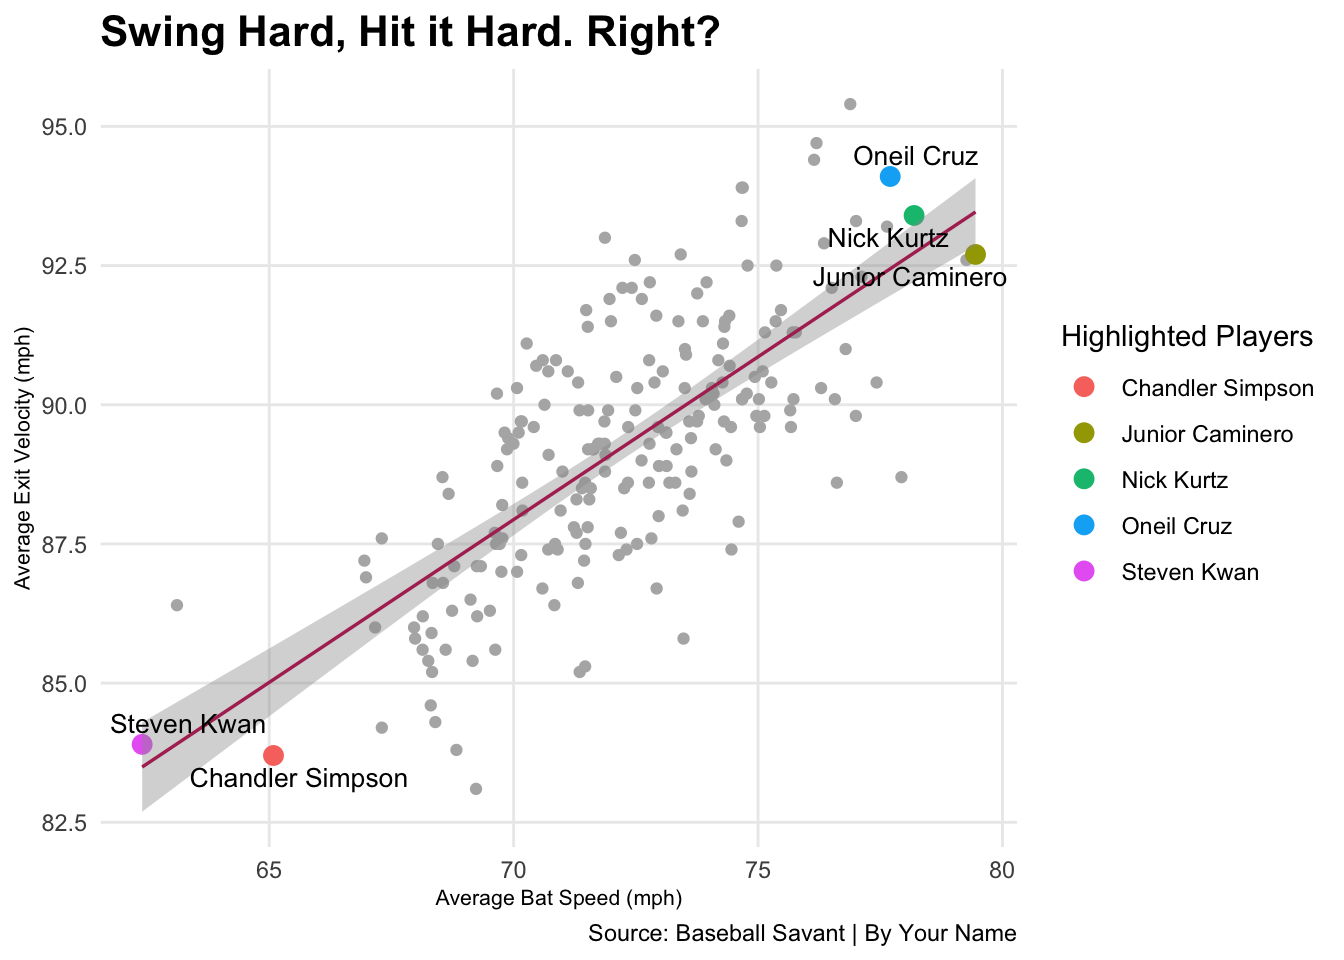
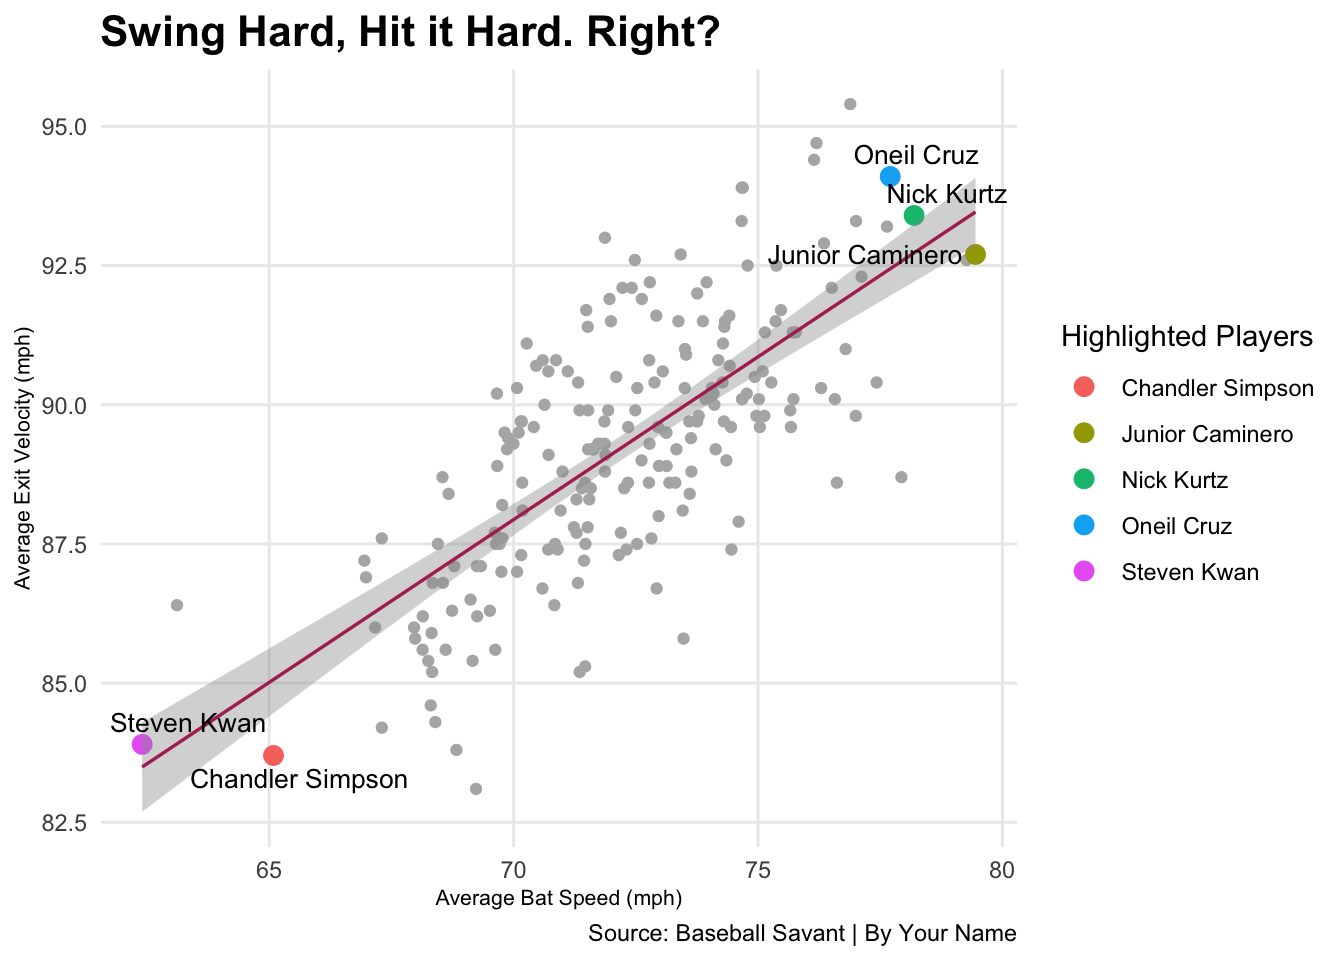
charts3

Changed region(s): [[0.5625, 0.1562, 0.75, 0.3125], [0.1562, 0.75, 0.2812, 0.8438], [0.0938, 0.75, 0.125, 0.7812]]

diff --git a/posts/mlb-hitting-data-baseball/index.html b/posts/mlb-hitting-data-baseball/index.html
@@ -576,23 +576,23 @@ pre > code.sourceCode > span > a:first-child::before { text-decoration: underlin
 <span id="cb3-75"><a href="#cb3-75" aria-hidden="true" tabindex="-1"></a>  )</span></code></pre></div><button title="Copy to Clipboard" class="code-copy-button"><i class="bi"></i></button></div>
 </details>
 <div class="cell-output-display">
-<div id="ptxwmjomcz" style="padding-left:0px;padding-right:0px;padding-top:10px;padding-bottom:10px;overflow-x:auto;overflow-y:auto;width:auto;height:auto;">
-<style>#ptxwmjomcz table {
+<div id="tmewzvvvbj" style="padding-left:0px;padding-right:0px;padding-top:10px;padding-bottom:10px;overflow-x:auto;overflow-y:auto;width:auto;height:auto;">
+<style>#tmewzvvvbj table {
   font-family: system-ui, 'Segoe UI', Roboto, Helvetica, Arial, sans-serif, 'Apple Color Emoji', 'Segoe UI Emoji', 'Segoe UI Symbol', 'Noto Color Emoji';
   -webkit-font-smoothing: antialiased;
   -moz-osx-font-smoothing: grayscale;
 }
 
-#ptxwmjomcz thead, #ptxwmjomcz tbody, #ptxwmjomcz tfoot, #ptxwmjomcz tr, #ptxwmjomcz td, #ptxwmjomcz th {
+#tmewzvvvbj thead, #tmewzvvvbj tbody, #tmewzvvvbj tfoot, #tmewzvvvbj tr, #tmewzvvvbj td, #tmewzvvvbj th {
   border-style: none;
 }
 
-#ptxwmjomcz p {
+#tmewzvvvbj p {
   margin: 0;
   padding: 0;
 }
 
-#ptxwmjomcz .gt_table {
+#tmewzvvvbj .gt_table {
   display: table;
   border-collapse: collapse;
   line-height: normal;
@@ -618,12 +618,12 @@ pre > code.sourceCode > span > a:first-child::before { text-decoration: underlin
   border-left-color: #D3D3D3;
 }
 
-#ptxwmjomcz .gt_caption {
+#tmewzvvvbj .gt_caption {
   padding-top: 4px;
   padding-bottom: 4px;
 }
 
-#ptxwmjomcz .gt_title {
+#tmewzvvvbj .gt_title {
   color: #333333;
   font-size: 125%;
   font-weight: initial;
@@ -635,7 +635,7 @@ pre > code.sourceCode > span > a:first-child::before { text-decoration: underlin
   border-bottom-width: 0;
 }
 
-#ptxwmjomcz .gt_subtitle {
+#tmewzvvvbj .gt_subtitle {
   color: #333333;
   font-size: 85%;
   font-weight: initial;
@@ -647,7 +647,7 @@ pre > code.sourceCode > span > a:first-child::before { text-decoration: underlin
   border-top-width: 0;
 }
 
-#ptxwmjomcz .gt_heading {
+#tmewzvvvbj .gt_heading {
   background-color: #FFFFFF;
   text-align: center;
   border-bottom-color: #FFFFFF;
@@ -659,13 +659,13 @@ pre > code.sourceCode > span > a:first-child::before { text-decoration: underlin
   border-right-color: #D3D3D3;
 }
 
-#ptxwmjomcz .gt_bottom_border {
+#tmewzvvvbj .gt_bottom_border {
   border-bottom-style: solid;
   border-bottom-width: 2px;
   border-bottom-color: #D3D3D3;
 }
 
-#ptxwmjomcz .gt_col_headings {
+#tmewzvvvbj .gt_col_headings {
   border-top-style: solid;
   border-top-width: 2px;
   border-top-color: #D3D3D3;
@@ -680,7 +680,7 @@ pre > code.sourceCode > span > a:first-child::before { text-decoration: underlin
   border-right-color: #D3D3D3;
 }
 
-#ptxwmjomcz .gt_col_heading {
+#tmewzvvvbj .gt_col_heading {
   color: #333333;
   background-color: #FFFFFF;
   font-size: 100%;
@@ -700,7 +700,7 @@ pre > code.sourceCode > span > a:first-child::before { text-decoration: underlin
   overflow-x: hidden;
 }
 
-#ptxwmjomcz .gt_column_spanner_outer {
+#tmewzvvvbj .gt_column_spanner_outer {
   color: #333333;
   background-color: #FFFFFF;
   font-size: 100%;
@@ -712,15 +712,15 @@ pre > code.sourceCode > span > a:first-child::before { text-decoration: underlin
   padding-right: 4px;
 }
 
-#ptxwmjomcz .gt_column_spanner_outer:first-child {
+#tmewzvvvbj .gt_column_spanner_outer:first-child {
   padding-left: 0;
 }
 
-#ptxwmjomcz .gt_column_spanner_outer:last-child {
+#tmewzvvvbj .gt_column_spanner_outer:last-child {
   padding-right: 0;
 }
 
-#ptxwmjomcz .gt_column_spanner {
+#tmewzvvvbj .gt_column_spanner {
   border-bottom-style: solid;
   border-bottom-width: 2px;
   border-bottom-color: #D3D3D3;
@@ -732,11 +732,11 @@ pre > code.sourceCode > span > a:first-child::before { text-decoration: underlin
   width: 100%;
 }
 
-#ptxwmjomcz .gt_spanner_row {
+#tmewzvvvbj .gt_spanner_row {
   border-bottom-style: hidden;
 }
 
-#ptxwmjomcz .gt_group_heading {
+#tmewzvvvbj .gt_group_heading {
   padding-top: 8px;
   padding-bottom: 8px;
   padding-left: 5px;
@@ -762,7 +762,7 @@ pre > code.sourceCode > span > a:first-child::before { text-decoration: underlin
   text-align: left;
 }
 
-#ptxwmjomcz .gt_empty_group_heading {
+#tmewzvvvbj .gt_empty_group_heading {
   padding: 0.5px;
   color: #333333;
   background-color: #FFFFFF;
@@ -777,15 +777,15 @@ pre > code.sourceCode > span > a:first-child::before { text-decoration: underlin
   vertical-align: middle;
 }
 
-#ptxwmjomcz .gt_from_md > :first-child {
+#tmewzvvvbj .gt_from_md > :first-child {
   margin-top: 0;
 }
 
-#ptxwmjomcz .gt_from_md > :last-child {
+#tmewzvvvbj .gt_from_md > :last-child {
   margin-bottom: 0;
 }
 
-#ptxwmjomcz .gt_row {
+#tmewzvvvbj .gt_row {
   padding-top: 8px;
   padding-bottom: 8px;
   padding-left: 5px;
@@ -804,7 +804,7 @@ pre > code.sourceCode > span > a:first-child::before { text-decoration: underlin
   overflow-x: hidden;
 }
 
-#ptxwmjomcz .gt_stub {
+#tmewzvvvbj .gt_stub {
   color: #333333;
   background-color: #FFFFFF;
   font-size: 100%;
@@ -817,7 +817,7 @@ pre > code.sourceCode > span > a:first-child::before { text-decoration: underlin
   padding-right: 5px;
 }
 
-#ptxwmjomcz .gt_stub_row_group {
+#tmewzvvvbj .gt_stub_row_group {
   color: #333333;
   background-color: #FFFFFF;
   font-size: 100%;
@@ -831,15 +831,15 @@ pre > code.sourceCode > span > a:first-child::before { text-decoration: underlin
   vertical-align: top;
 }
 
-#ptxwmjomcz .gt_row_group_first td {
+#tmewzvvvbj .gt_row_group_first td {
   border-top-width: 2px;
 }
 
-#ptxwmjomcz .gt_row_group_first th {
+#tmewzvvvbj .gt_row_group_first th {
   border-top-width: 2px;
 }
 
-#ptxwmjomcz .gt_summary_row {
+#tmewzvvvbj .gt_summary_row {
   color: #333333;
   background-color: #FFFFFF;
   text-transform: inherit;
@@ -849,16 +849,16 @@ pre > code.sourceCode > span > a:first-child::before { text-decoration: underlin
   padding-right: 5px;
 }
 
-#ptxwmjomcz .gt_first_summary_row {
+#tmewzvvvbj .gt_first_summary_row {
   border-top-style: solid;
   border-top-color: #D3D3D3;
 }
 
-#ptxwmjomcz .gt_first_summary_row.thick {
+#tmewzvvvbj .gt_first_summary_row.thick {
   border-top-width: 2px;
 }
 
-#ptxwmjomcz .gt_last_summary_row {
+#tmewzvvvbj .gt_last_summary_row {
   padding-top: 8px;
   padding-bottom: 8px;
   padding-left: 5px;
@@ -868,7 +868,7 @@ pre > code.sourceCode > span > a:first-child::before { text-decoration: underlin
   border-bottom-color: #D3D3D3;
 }
 
-#ptxwmjomcz .gt_grand_summary_row {
+#tmewzvvvbj .gt_grand_summary_row {
   color: #333333;
   background-color: #FFFFFF;
   text-transform: inherit;
@@ -878,7 +878,7 @@ pre > code.sourceCode > span > a:first-child::before { text-decoration: underlin
   padding-right: 5px;
 }
 
-#ptxwmjomcz .gt_first_grand_summary_row {
+#tmewzvvvbj .gt_first_grand_summary_row {
   padding-top: 8px;
   padding-bottom: 8px;
   padding-left: 5px;
@@ -888,7 +888,7 @@ pre > code.sourceCode > span > a:first-child::before { text-decoration: underlin
   border-top-color: #D3D3D3;
 }
 
-#ptxwmjomcz .gt_last_grand_summary_row_top {
+#tmewzvvvbj .gt_last_grand_summary_row_top {
   padding-top: 8px;
   padding-bottom: 8px;
   padding-left: 5px;
@@ -898,11 +898,11 @@ pre > code.sourceCode > span > a:first-child::before { text-decoration: underlin
   border-bottom-color: #D3D3D3;
 }
 
-#ptxwmjomcz .gt_striped {
+#tmewzvvvbj .gt_striped {
   background-color: rgba(128, 128, 128, 0.05);
 }
 
-#ptxwmjomcz .gt_table_body {
+#tmewzvvvbj .gt_table_body {
   border-top-style: solid;
   border-top-width: 2px;
   border-top-color: #D3D3D3;
@@ -911,7 +911,7 @@ pre > code.sourceCode > span > a:first-child::before { text-decoration: underlin
   border-bottom-color: #D3D3D3;
 }
 
-#ptxwmjomcz .gt_footnotes {
+#tmewzvvvbj .gt_footnotes {
   color: #333333;
   background-color: #FFFFFF;
   border-bottom-style: none;
@@ -925,7 +925,7 @@ pre > code.sourceCode > span > a:first-child::before { text-decoration: underlin
   border-right-color: #D3D3D3;
 }
 
-#ptxwmjomcz .gt_footnote {
+#tmewzvvvbj .gt_footnote {
   margin: 0px;
   font-size: 90%;
   padding-top: 4px;
@@ -934,7 +934,7 @@ pre > code.sourceCode > span > a:first-child::before { text-decoration: underlin
   padding-right: 5px;
 }
 
-#ptxwmjomcz .gt_sourcenotes {
+#tmewzvvvbj .gt_sourcenotes {
   color: #333333;
   background-color: #FFFFFF;
   border-bottom-style: none;
@@ -948,7 +948,7 @@ pre > code.sourceCode > span > a:first-child::before { text-decoration: underlin
   border-right-color: #D3D3D3;
 }
 
-#ptxwmjomcz .gt_sourcenote {
+#tmewzvvvbj .gt_sourcenote {
   font-size: 90%;
   padding-top: 4px;
   padding-bottom: 4px;
@@ -956,72 +956,72 @@ pre > code.sourceCode > span > a:first-child::before { text-decoration: underlin
   padding-right: 5px;
 }
 
-#ptxwmjomcz .gt_left {
+#tmewzvvvbj .gt_left {
   text-align: left;
 }
 
-#ptxwmjomcz .gt_center {
+#tmewzvvvbj .gt_center {
   text-align: center;
 }
 
-#ptxwmjomcz .gt_right {
+#tmewzvvvbj .gt_right {
   text-align: right;
   font-variant-numeric: tabular-nums;
 }
 
-#ptxwmjomcz .gt_font_normal {
+#tmewzvvvbj .gt_font_normal {
   font-weight: normal;
 }
 
-#ptxwmjomcz .gt_font_bold {
+#tmewzvvvbj .gt_font_bold {
   font-weight: bold;
 }
 
-#ptxwmjomcz .gt_font_italic {
+#tmewzvvvbj .gt_font_italic {
   font-style: italic;
 }
 
-#ptxwmjomcz .gt_super {
+#tmewzvvvbj .gt_super {
   font-size: 65%;
 }
 
-#ptxwmjomcz .gt_footnote_marks {
+#tmewzvvvbj .gt_footnote_marks {
   font-size: 75%;
   vertical-align: 0.4em;
   position: initial;
 }
 
-#ptxwmjomcz .gt_asterisk {
+#tmewzvvvbj .gt_asterisk {
   font-size: 100%;
   vertical-align: 0;
 }
 
-#ptxwmjomcz .gt_indent_1 {
+#tmewzvvvbj .gt_indent_1 {
   text-indent: 5px;
 }
 
-#ptxwmjomcz .gt_indent_2 {
+#tmewzvvvbj .gt_indent_2 {
   text-indent: 10px;
 }
 
-#ptxwmjomcz .gt_indent_3 {
+#tmewzvvvbj .gt_indent_3 {
   text-indent: 15px;
 }
 
-#ptxwmjomcz .gt_indent_4 {
+#tmewzvvvbj .gt_indent_4 {
   text-indent: 20px;
 }
 
-#ptxwmjomcz .gt_indent_5 {
+#tmewzvvvbj .gt_indent_5 {
   text-indent: 25px;
 }
 
-#ptxwmjomcz .katex-display {
+#tmewzvvvbj .katex-display {
   display: inline-flex !important;
   margin-bottom: 0.75em !important;
 }
 
-#ptxwmjomcz div.Reactable > div.rt-table > div.rt-thead > div.rt-tr.rt-tr-group-header > div.rt-th-group:after {
+#tmewzvvvbj div.Reactable > div.rt-table > div.rt-thead > div.rt-tr.rt-tr-group-header > div.rt-th-group:after {
   height: 0px !important;
 }
 </style>
